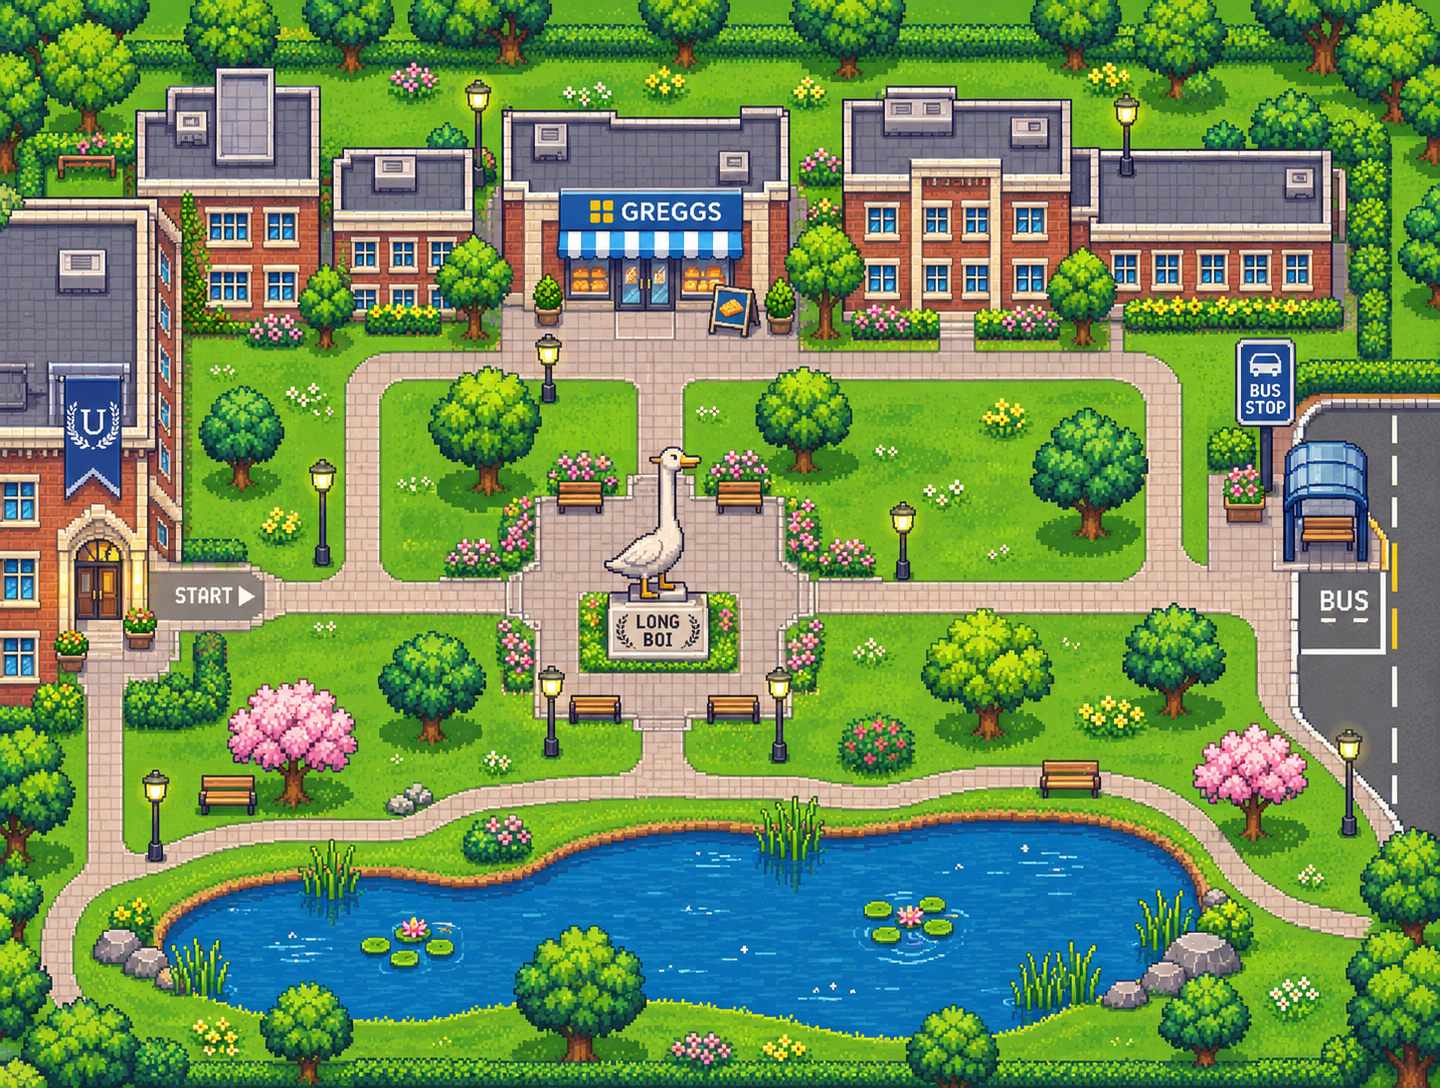
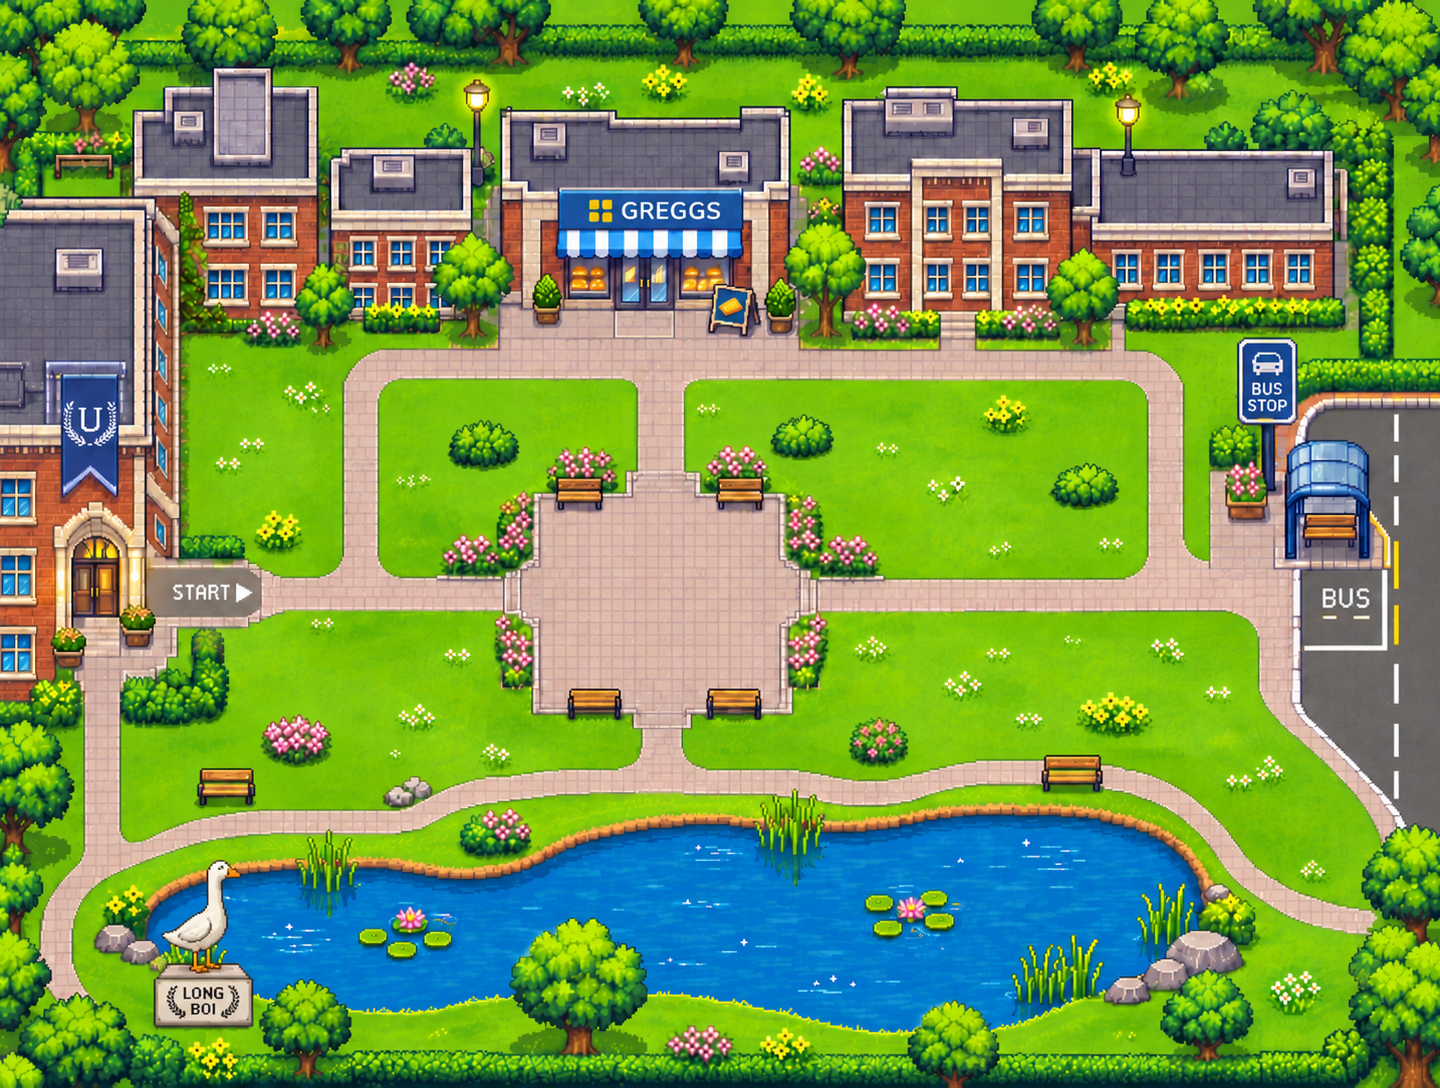
Changed Map, Character and added Health to Character
I changed the map and got rid of the trees because I was wasting too much time trying to figure out how to make the player walk behind them instead of on top. I changed the character to resemble a university student. I also added health to the player and the ability to heal and take damage. I put in some simple tests in the GoosePatrolGame class to be able to test damage to the player and to be able to heal from the items and restore health when defeated.

diff --git a/core/src/main/java/com/goosepatrol/game/Player.java b/core/src/main/java/com/goosepatrol/game/Player.java
@@ -17,15 +17,20 @@ public class Player {
     private float y;
 
     // The student's size and speed.
-    private static final float SIZE = 48f;
+    private static final float SIZE = 78.5f;
     private static final float SPEED = 200f;
 
     // The size of the rectangle representing the student's feet for collision detection.
     private static final float FEET_WIDTH = 24f;
     private static final float FEET_HEIGHT = 12f; 
 
+    private static final int MAX_HEALTH = 5; // The maximum health of the player.
+    private static final float INVINCIBILITY_DURATION = 1f; // Duration of invincibility after taking damage in seconds.
+    private int health = MAX_HEALTH; // The current health of the player.
+    private float invincibilityTimer = 0f; // Timer to track invincibility duration after taking damage.
+
     // Duration of each frame in seconds.
-    private static final float FRAME_DURATION = 0.17f; 
+    private static final float FRAME_DURATION = 0.3f; 
 
     // The student's possible movement directions.
     private enum Direction {UP, DOWN, LEFT, RIGHT}
@@ -64,6 +69,21 @@ public class Player {
 
     // Update the student's movement every frame.
     public void updateMovement(float deltaTime, CollisionMap collisions) {
+
+    // Reduce temporary protection time.
+    if (invincibilityTimer > 0f) {
+        invincibilityTimer = Math.max(0f, invincibilityTimer - deltaTime);
+    }
+
+    // Defeated players cannot move.
+    if (isDefeated()) {
+
+        moving = false;
+        animationTime = 0f;
+
+        return;
+    }
+
 
         float dx = 0f; // Change in x-coordinate.
         float dy = 0f; // Change in y-coordinate.
@@ -140,7 +160,6 @@ public class Player {
         }
 
     }
-
 
     // Get the walking animation based on the player's facing direction.
     private Animation <TextureRegion> getWalkingAnimation() {
@@ -226,6 +245,60 @@ public class Player {
                 y = oldY;
             }
         }
+    }
+
+    // Method to take damage and reduce the player's health, returning true if damage was taken, false otherwise.
+    public boolean takeDamage(int amount) {
+
+        if (amount <= 0 || isInvincible() || isDefeated()) {
+            return false; // No damage taken if the amount is non-positive or the player is invulnerable.
+        }
+
+        health = Math.max(0, health - amount); // Reduce health by the damage amount, ensuring it doesn't go below 0.
+        invincibilityTimer = INVINCIBILITY_DURATION; // Start the invincibility timer after taking damage.
+        return true; // Damage was successfully taken.
+    }
+
+
+    // Restore health without exceeding the maximum.
+    public void heal(int amount) {
+
+        // Ignore invalid healing or healing after defeat.
+        if (amount <= 0 || isDefeated()) {
+            return;
+        }
+
+        health = Math.min(MAX_HEALTH, health + amount); // Increase health by the healing amount, ensuring it doesn't exceed the maximum.
+    }
+
+    // Restore the player's health and clear damage protection.
+    public void resetHealth() {
+
+        health = MAX_HEALTH;
+        invincibilityTimer = 0f;
+
+        moving = false;
+        animationTime = 0f;
+    }
+
+    // Return true while temporary protection is active.
+    public boolean isInvincible() {
+        return invincibilityTimer > 0f;
+    }
+
+    // Return true when the player has no health.
+    public boolean isDefeated() {
+        return health == 0;
+    }
+
+    // Return the player's current health.
+    public int getHealth() {
+        return health;
+    }
+
+    // Return the maximum permitted health.
+    public int getMaxHealth() {
+        return MAX_HEALTH;
     }
 
 }

diff --git a/core/src/main/java/com/goosepatrol/game/GoosePatrolGame.java b/core/src/main/java/com/goosepatrol/game/GoosePatrolGame.java
@@ -15,6 +15,7 @@ import com.badlogic.gdx.maps.tiled.renderers.OrthogonalTiledMapRenderer;
 import com.badlogic.gdx.graphics.OrthographicCamera;
 import com.badlogic.gdx.utils.viewport.FitViewport;
 
+import com.badlogic.gdx.Input;
 
 public class GoosePatrolGame extends ApplicationAdapter {
 
@@ -51,11 +52,11 @@ public class GoosePatrolGame extends ApplicationAdapter {
         // LOAD CHARACTER
         batch = new SpriteBatch(); // Initialise the sprite batch for drawing textures.
 
-        playerSheet = new Texture(Gdx.files.internal("student_sheet.png")); // Load the sprite sheet for the player character.
+        playerSheet = new Texture(Gdx.files.internal("character/student_sheet.png")); // Load the sprite sheet for the player character.
 
         playerSheet.setFilter(Texture.TextureFilter.Nearest, Texture.TextureFilter.Nearest); // Set the texture filter to nearest for pixelated look.
 
-        TextureRegion[][] frames = TextureRegion.split(playerSheet, 16, 16); // Split the sprite sheet into individual frames of size 16x16pixels.
+        TextureRegion[][] frames = TextureRegion.split(playerSheet, 300, 300); // Split the sprite sheet into individual frames of size 16x16pixels.
 
         player = new Player(185f, 470f, frames); // Create a new player character at the starting position (185, 470).
 
@@ -90,6 +91,55 @@ public class GoosePatrolGame extends ApplicationAdapter {
         float deltaTime = Gdx.graphics.getDeltaTime(); // Calculate the time since the last frame.
 
         player.updateMovement(deltaTime, collisions); // Update the student's movement based on input.
+
+
+        // TEMPORARY TEST: Simulate a goose peck.
+        if (Gdx.input.isKeyJustPressed(Input.Keys.P)) {
+
+            boolean damageApplied = player.takeDamage(1);
+
+            if (damageApplied) {
+                System.out.println("Goose peck! Health: " +player.getHealth());
+            } else {
+                System.out.println("No damage applied.");
+            }
+        }
+
+        // TEMPORARY TEST: Heal the player.
+        if (Gdx.input.isKeyJustPressed(Input.Keys.H)) {
+
+            player.heal(1);
+
+            System.out.println("Healed by 1 point. Current health: " + player.getHealth());
+        }
+
+        // BANDAGE TEMPORARY HEAL TEMPORARY TEST: Heal the player using bandage.
+        if (Gdx.input.isKeyJustPressed(Input.Keys.B)) {
+
+            player.heal(2);
+            System.out.println("Bandage used! Health restored by 2 points.");
+            System.out.println("Current health: " + player.getHealth());
+        }
+
+
+        // SAUSAGE ROLL HEAL TEMPORARY TEST: Heal the player using sausage roll.
+        if (Gdx.input.isKeyJustPressed(Input.Keys.G)) {
+
+            player.resetHealth();
+            System.out.println("Sausage roll consumed! Health restored to maximum.");
+            System.out.println("Current health: " + player.getHealth());
+        }
+
+        // TEMPORARY TEST: Restart after defeat.
+        if (Gdx.input.isKeyJustPressed(Input.Keys.R)) {
+
+            if (!player.isDefeated()) {
+                System.out.println("Player is not defeated. Can't reset health.");
+            } else {
+                player.resetHealth();
+                System.out.println("Player health reset!");
+            }
+        }
 
         player.keepInsideMap(mapWidth, mapHeight); // Ensure the player stays within the map boundaries.
 
